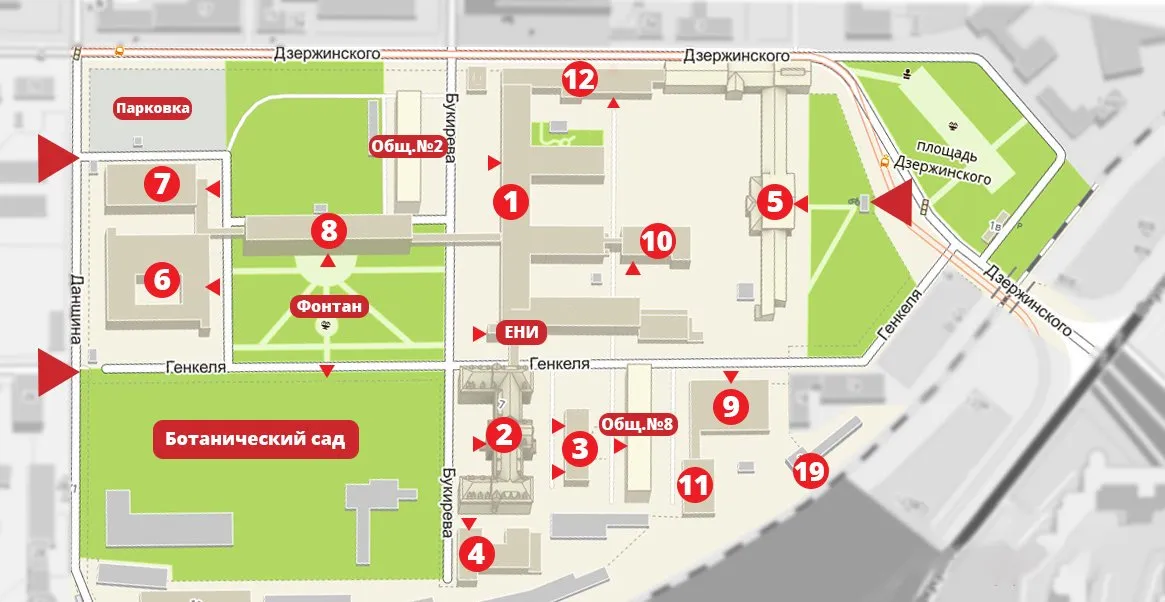
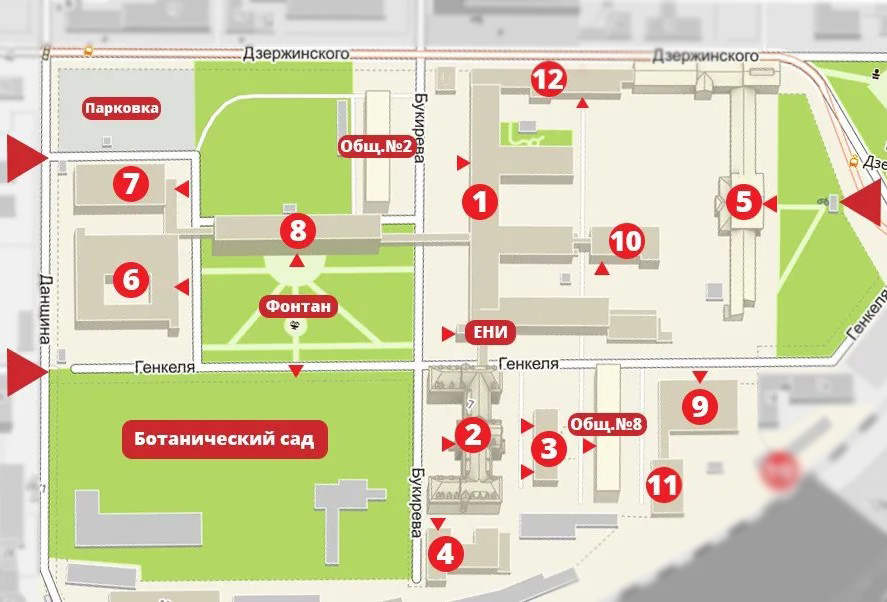
change map

diff --git a/mainall/templates/mainall/map_PGU.html b/mainall/templates/mainall/map_PGU.html
@@ -9,28 +9,28 @@
 
  <div>
     <div class = "mapcolor">
-      <img class ="map" src="mainall/static/mainall/media/mapPGU.jpg" alt="map"/>
+      <img class ="map" src="mainall/static/mainall/media/mapPGU.png" alt="map"/>
       <div class="legenda p-4 mb-2 bg-light mx-3">
         <div class="container-fluid py-3">
             <h1 class="header_text1 display-6 fw-bold">Легенда</h1>
         <div class="spisok1 py-4" type="circle">
 
             <li><img class ="nomer" src="mainall/static/mainall/media/1.png" alt="nomer"/><a href="/login">Корпус № 1. Физфак, Биофак</a></li>
-            <li>Корпус № 2. Мехмат, ИПФ, ФСФ</li>
-            <li>Корпус № 3. СИЯЛ</li>
-            <li>Корпус № 4. Колледж ПГНИУ</li>
-            <li>Корпус № 5. Филфак, Юрфак, СИЯЛ</li>
-            <li>Корпус № 6. Химфак</li>
-            <li>Корпус № 7. СДК, профком</li>
-            <li>Корпус № 8. Географы, Геологи</li>
-            <li>Корпус № 9. Юрфак</li>
-            <li>Корпус № 10. Спортивный</li>
-            <li>Корпус № 11. Юрфак</li>
-            <li>Корпус № 12. Эконом</li>
-            <li>Корпус ЕНИ</li>
-            <li>Общежитие № 2</li>
-            <li>Общежитие № 8</li>
-            <li>Ботанический сад</li>
+            <li><img class ="nomer" src="mainall/static/mainall/media/2.png" alt="nomer"/>Корпус № 2. Мехмат, ИПФ, ФСФ</li>
+            <li><img class ="nomer" src="mainall/static/mainall/media/3.png" alt="nomer"/>Корпус № 3. СИЯЛ</li>
+            <li><img class ="nomer" src="mainall/static/mainall/media/4.png" alt="nomer"/>Корпус № 4. Колледж ПГНИУ</li>
+            <li><img class ="nomer" src="mainall/static/mainall/media/5.png" alt="nomer"/>Корпус № 5. Филфак, Юрфак, СИЯЛ</li>
+            <li><img class ="nomer" src="mainall/static/mainall/media/6.png" alt="nomer"/>Корпус № 6. Химфак</li>
+            <li><img class ="nomer" src="mainall/static/mainall/media/7.png" alt="nomer"/>Корпус № 7. СДК, профком</li>
+            <li><img class ="nomer" src="mainall/static/mainall/media/8.png" alt="nomer"/>Корпус № 8. Географы, Геологи</li>
+            <li><img class ="nomer" src="mainall/static/mainall/media/9.png" alt="nomer"/>Корпус № 9. Юрфак</li>
+            <li><img class ="nomer" src="mainall/static/mainall/media/10.png" alt="nomer"/>Корпус № 10. Спортивный</li>
+            <li><img class ="nomer" src="mainall/static/mainall/media/11.png" alt="nomer"/>Корпус № 11. Юрфак</li>
+            <li><img class ="text" src="mainall/static/mainall/media/12.png" alt="text" width="34px"/>Корпус № 12. Эконом</li>
+            <li><img src="mainall/static/mainall/media/ENI.png" width="60px"/>Корпус ЕНИ</li>
+            <li><img class ="text" src="mainall/static/mainall/media/obshezh2.png" alt="text" width="70px"/>Общежитие № 2</li>
+            <li><img class ="text" src="mainall/static/mainall/media/obshezh2.png" alt="text" width="70px"/>Общежитие № 8</li>
+            <li><img class ="text" src="mainall/static/mainall/media/BotSad.png" alt="text" width="140px"/>Ботанический сад</li>
 
         </div>
         </div>

diff --git a/mainall/static/mainall/css/styles.css b/mainall/static/mainall/css/styles.css
@@ -16,6 +16,7 @@ h1.header_text {
 
 h1.header_text1 {
     text-align: center;
+    margin-top: -30px;
     color: #404040;
 }
 
@@ -46,6 +47,7 @@ div.contacts {
 .spisok1 {
     font-size: large;
     list-style-type: none;
+    margin-top: -20px;
 }
 
 a.link_form {
@@ -53,10 +55,10 @@ a.link_form {
 }
 
 .map {
-    width: 850px;
-    margin-left: 70px;
+    width: 900px;
+    margin-left: 50px;
     margin-bottom: 70px;
-    margin-top: 30px;
+    margin-top: 70px;
 }
 
 .mapcolor {
@@ -66,16 +68,20 @@ a.link_form {
 
 .legenda {
     width: 400px;
-    height: 575px;
+    height: 610px;
     position: relative;
-    left: -60px;
+    left: -45px;
     float: right;
-    margin-top: 30px;
+    margin-top: 70px;
 }
 
 
 .nomer {
     width: 30px;
+    margin-right: 10px;
+}
+
+.text {
     margin-right: 10px;
 }
 
